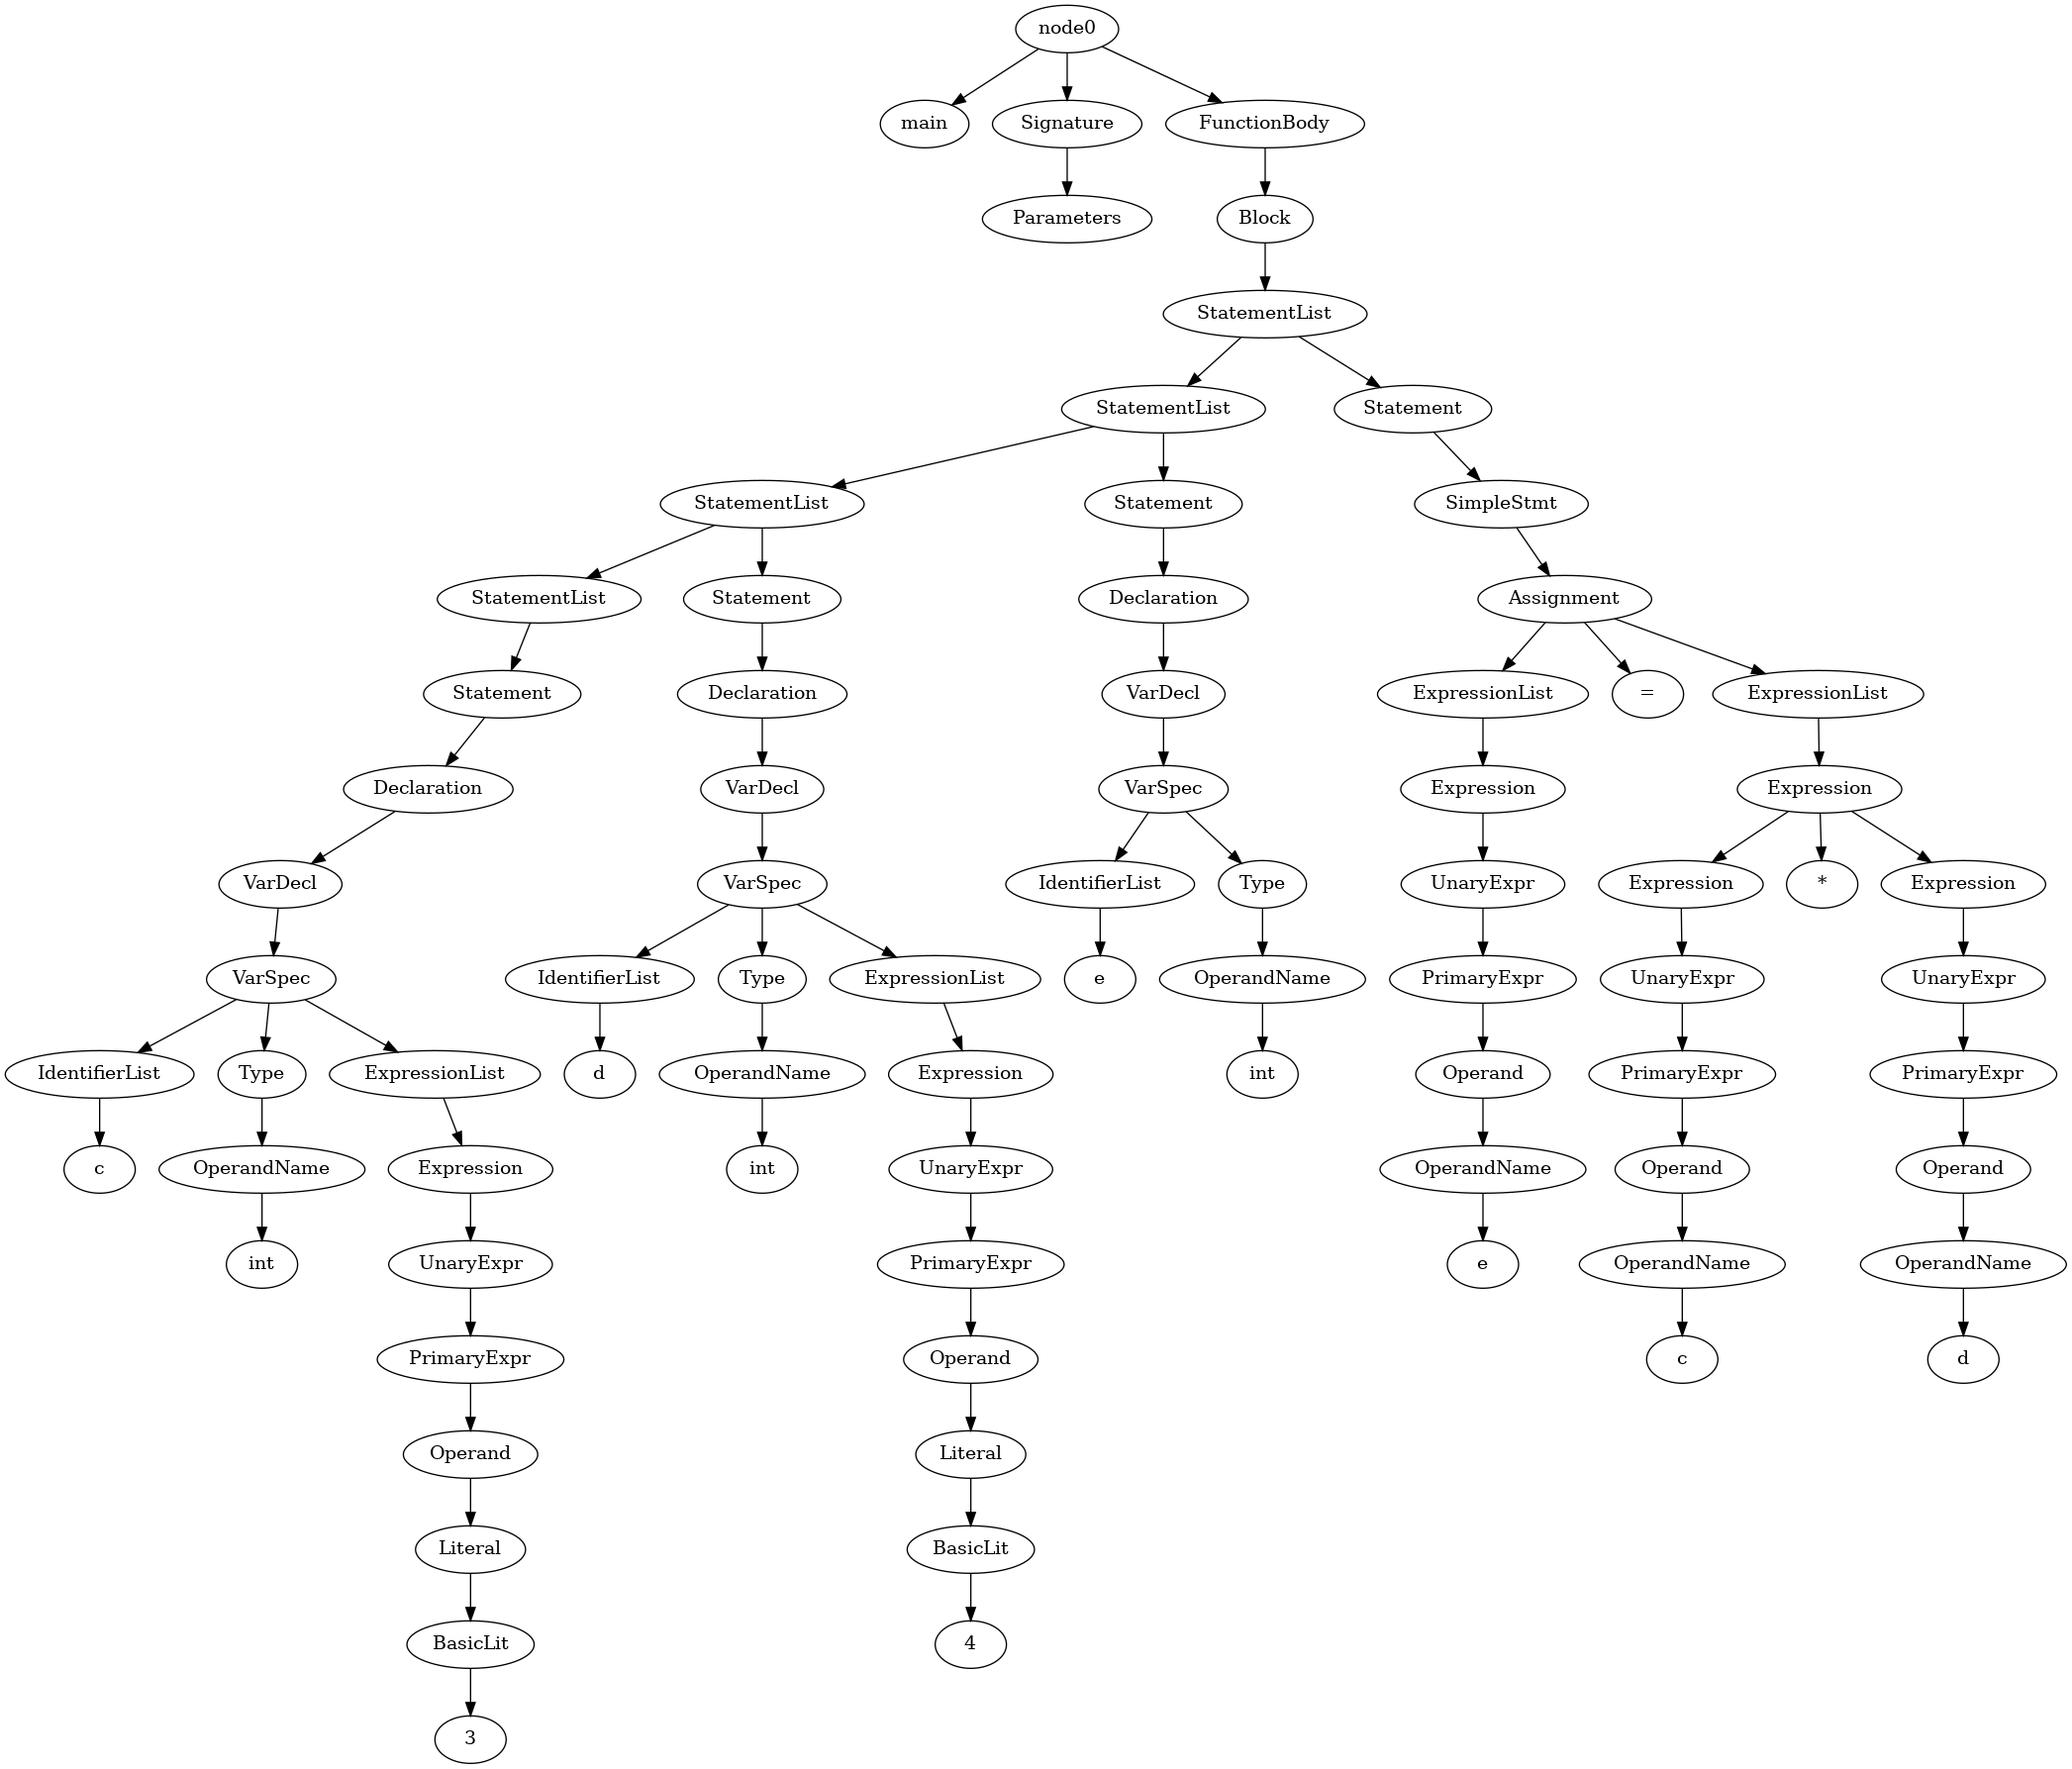
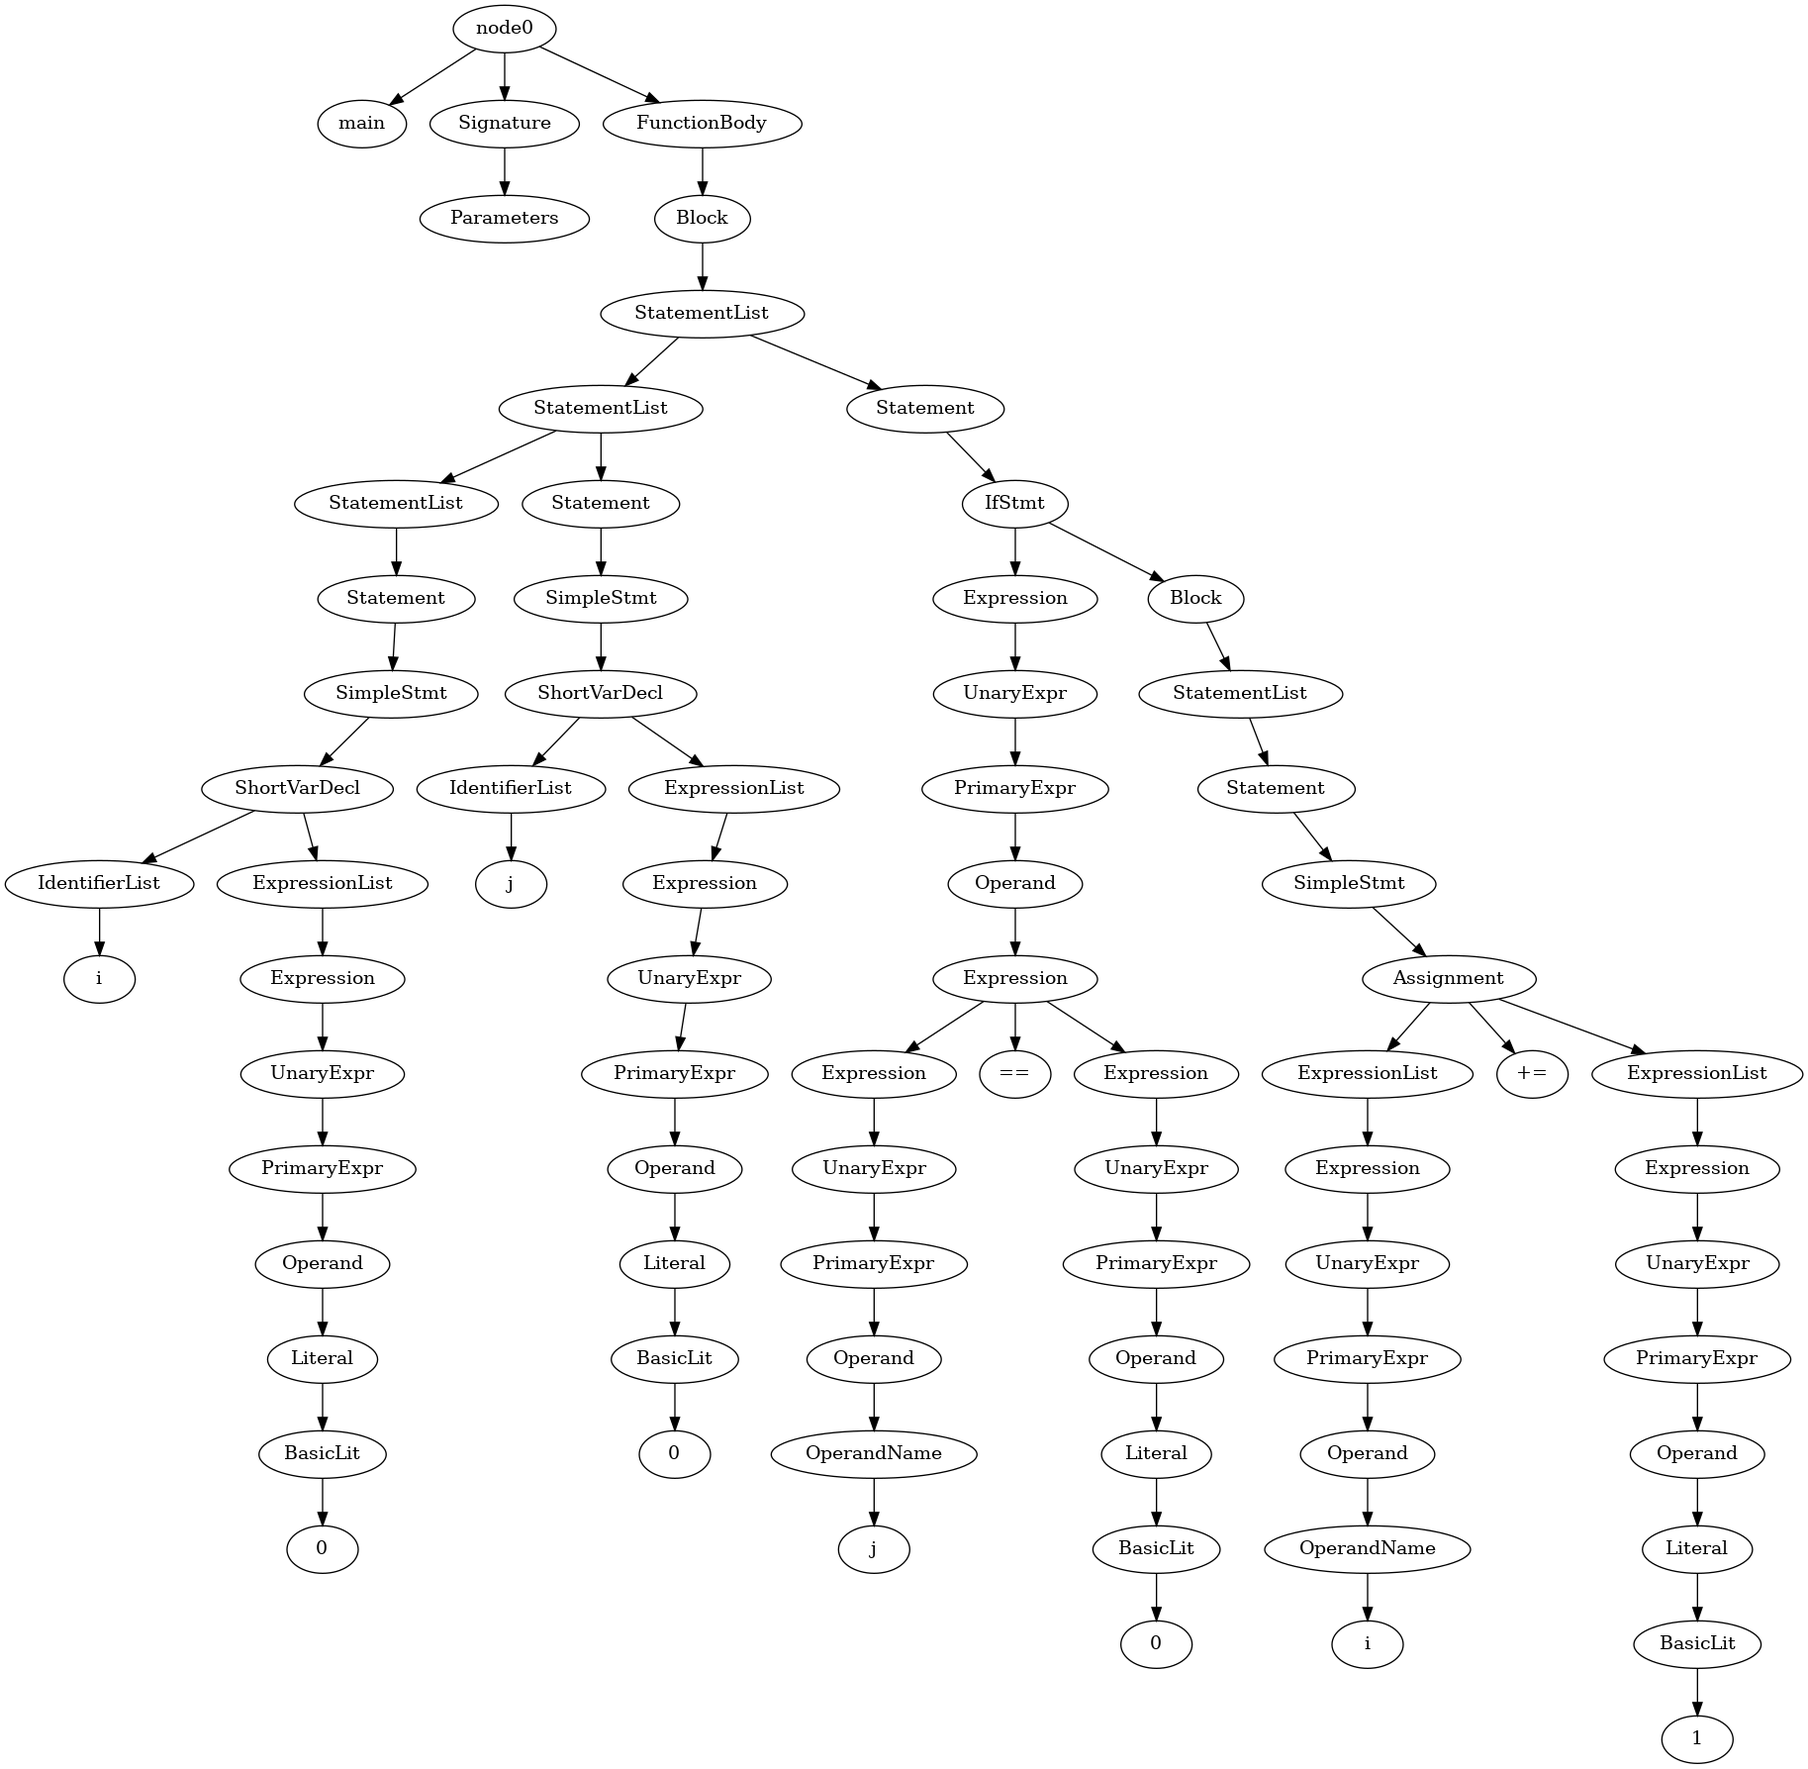
Update tests

diff --git a/test/g_test/test11.go b/test/g_test/test11.go
@@ -6,23 +6,29 @@ func main() {
 
 	i:=0
 	j:=0
-	for j<=50 {
-       j+=1
-	   if(j>=20){
-			for 1 {
-				i+=1
-				if(i==5){
-					i = 0
-					break;
-				}
-			}
-		} else if (j <= 15){
-			j += 3
-		} else {
-			continue
-		}
-		i -= 1;
-	}
+	if(j==0) {
+		i+=1
+	} 
+	// else {
+	// 	j++
+	// }
+	// for j<=50 {
+ //       j+=1
+	//    if(j>=20){
+	// 		for 1 {
+	// 			i+=1
+	// 			if(i==5){
+	// 				i = 0
+	// 				break;
+	// 			}
+	// 		}
+	// 	} else if (j <= 15){
+	// 		j += 3
+	// 	} else {
+	// 		continue
+	// 	}
+	// 	i -= 1;
+	// }
 	
 }
 

diff --git a/test/g_test/test24.go b/test/g_test/test24.go
@@ -4,10 +4,10 @@ import "fmt"
 
 
 func main() {
-	var c int = 3
-	var d int = 4
+	var c int =2   
+	var d int =4
 	var e int
 
-	e = c * d
+	e = c * (d/2) + (5)
 
 }
